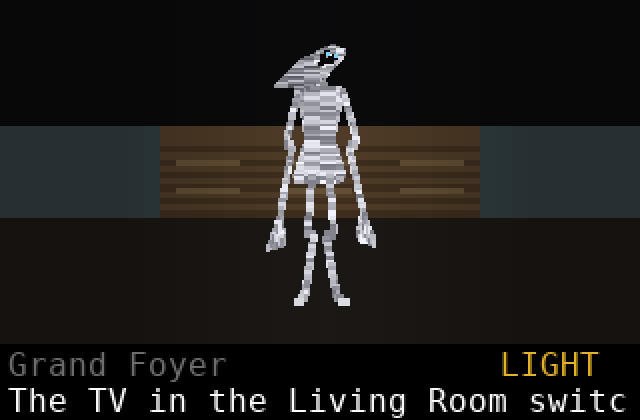
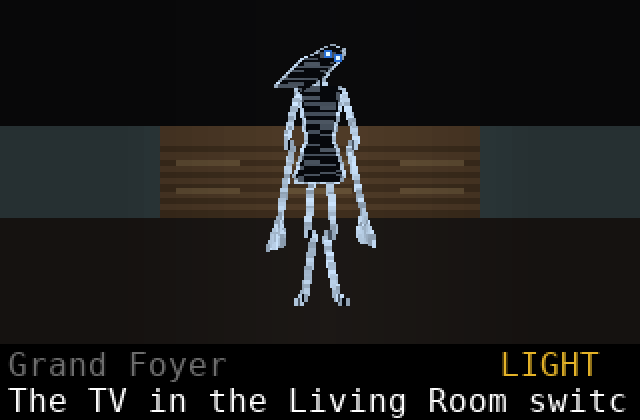
Draw Ysolde like the full game's static shader
The full game draws her dark inside with faint blue-grey static, a bright
static outline, and two small cold blue eyes, with no face most of the
time. The demo and the icon now both do the same, from the same
character-sheet shape, and the mouth, sockets and tear streaks are gone.

Claude-Session: https://claude.ai/code/session_01ABga3j6ZJ15ibdVoXrUo56

Changed region(s): [[0.4062, 0.0929, 0.5938, 0.7429], [0.5312, 0.7119, 0.5625, 0.7429]]

diff --git a/calc/GHICONS.py b/calc/GHICONS.py
@@ -305,85 +305,78 @@ def hangman(x, y, c):
 
 
 def crypt(x, y, c):
-    # Ysolde: a static woman, small head tilted hard on a long neck,
-    # lank hair, gaunt face, small cold blue eyes, jaw hanging open.
+    # Ysolde as she looks in the full game: a thin dark shape full of faint
+    # static, outlined in bright static, with two small cold blue eyes.
+    # Same shape as her character sheet (256 x 640), head and shoulders only.
     random.seed(7)
-    hx = x + 3
-    hy = y - 7
+    k = 0.21
+    ox = x + 3
+    oy = y - 17
     ca = math.cos(0.55)
     sa = math.sin(0.55)
 
-    def rot(px, py):
-        return hx + px * ca - py * sa, hy + px * sa + py * ca
+    def m(cx, cy):
+        return ox + (cx - 140) * k, oy + (cy - 50) * k
 
-    def shape(pts, col):
-        xs = []
-        ys = []
-        for px, py in pts:
-            a, b = rot(px, py)
-            xs.append(a)
-            ys.append(b)
-        poly(xs, ys, col)
+    def head(lx, ly):
+        return m(140 + lx * ca - ly * sa, 50 + lx * sa + ly * ca)
 
-    def oval(px, py, rx, ry, col, n=14):
-        shape([(px + rx * math.cos(2 * math.pi * i / n), py + ry * math.sin(2 * math.pi * i / n)) for i in range(n)], col)
+    def band(pts, w):
+        # a thick line through canvas points, as a polygon
+        left = []
+        right = []
+        for i in range(len(pts) - 1):
+            (x1, y1), (x2, y2) = pts[i], pts[i + 1]
+            d = math.hypot(x2 - x1, y2 - y1) or 1
+            nx = -(y2 - y1) / d * w / 2
+            ny = (x2 - x1) / d * w / 2
+            left += [(x1 + nx, y1 + ny), (x2 + nx, y2 + ny)]
+            right += [(x1 - nx, y1 - ny), (x2 - nx, y2 - ny)]
+        return [m(px, py) for px, py in left + right[::-1]]
 
-    def inside(px, py, xs, ys):
-        n = len(xs)
-        hit = False
-        j = n - 1
-        for i in range(n):
-            if (ys[i] > py) != (ys[j] > py) and px < xs[i] + (py - ys[i]) * (xs[j] - xs[i]) / (ys[j] - ys[i]):
-                hit = not hit
-            j = i
-        return hit
+    shapes = [
+        [head(17 * math.cos(t * math.pi / 8), 25 * math.sin(t * math.pi / 8)) for t in range(16)],
+        [head(px, py) for px, py in ((-18, -6), (-27, 30), (-24, 96), (-6, 70), (8, 100), (20, 60), (17, -6), (10, -24), (-10, -24))],
+        band(((128, 125), (132, 88), (140, 66)), 11),
+        [m(px, py) for px, py in ((98, 122), (128, 112), (160, 126), (150, 210), (148, 250), (108, 250), (106, 210))],
+        band(((100, 128), (84, 250), (90, 260)), 7),
+        band(((158, 128), (176, 248), (170, 258)), 7),
+    ]
 
-    def static(xs, ys, base, n, lo=100, hi=250):
-        poly(xs, ys, base)
-        x0 = int(min(xs))
-        x1 = int(max(xs))
-        y0 = int(min(ys))
-        y1 = int(max(ys))
-        for i in range(n):
-            px = random.randint(x0, x1)
-            py = random.randint(y0, y1)
-            if inside(px + 1, py + 1, xs, ys):
-                g = random.randint(lo, hi)
-                box(px, py, 2, 2, (g, g, g + 5 if g < 250 else g))
+    def spans(pts):
+        out = []
+        ys = [p[1] for p in pts]
+        n = len(pts)
+        for row in range(int(min(ys)), int(max(ys)) + 1):
+            yc = row + .5
+            xs = []
+            for i in range(n):
+                (x1, y1), (x2, y2) = pts[i], pts[(i + 1) % n]
+                if (y1 <= yc < y2) or (y2 <= yc < y1):
+                    xs.append(x1 + (yc - y1) * (x2 - x1) / (y2 - y1))
+            if len(xs) >= 2:
+                out.append((row, int(min(xs) + .5), int(max(xs) + .5)))
+        return out
 
-    # lank hair hanging behind, the same static as the rest of her
-    hair = [rot(px, py) for px, py in ((-9, -4), (-14, 12), (-12, 24), (-4, 18), (3, 25), (9, 15), (9, -4), (0, -12))]
-    static([p[0] for p in hair], [p[1] for p in hair], (125, 125, 132), 70, 70, 210)
-    for a0, a1 in (((-7, 0), (-11, 20)), ((-2, 2), (-3, 16)), ((4, 2), (6, 20))):
-        p0 = rot(a0[0], a0[1])
-        p1 = rot(a1[0], a1[1])
-        line(p0[0], p0[1], p1[0], p1[1], (45, 45, 52))
-    # long neck and narrow sloped shoulders
-    nx, ny = rot(0, 11)
-    static([nx - 3, nx + 3, x + 2, x - 4], [ny, ny, y + 16, y + 16], (165, 165, 172), 30)
-    static([x - 13, x - 2, x + 11, x + 7, x - 9], [y + 22, y + 14, y + 20, y + 23, y + 23], (150, 150, 158), 40)
-    # head
-    oval(0, 0, 8.5, 12.5, (200, 200, 205))
-    for i in range(70):
-        px = random.uniform(-8, 8)
-        py = random.uniform(-12, 12)
-        if (px / 8.5) ** 2 + (py / 12.5) ** 2 < 1:
-            g = random.randint(110, 255)
-            a, b = rot(px, py)
-            box(a, b, 2, 2, (g, g, g))
-    # glitch band
-    a, b = rot(0, -6)
-    box(a - 6, b, 14, 2, (235, 235, 240))
-    # face
-    for s in (-1, 1):
-        oval(s * 3.5, -3, 2.4, 2.8, (10, 10, 15), 8)
-        ex, ey = rot(s * 3.5, -3)
-        circ(ex, ey, 1, (40, 110, 220))
-        box(ex, ey, 2, 2, (150, 225, 255))
-        t0 = rot(s * 3.5, 1)
-        t1 = rot(s * 4, 6)
-        line(t0[0], t0[1], t1[0], t1[1], (10, 10, 15))
-    oval(0, 7, 2, 4, (15, 5, 5), 10)
+    all_spans = [spans(sh) for sh in shapes]
+    # bright static outline: everything bright first, then the dark inside
+    for sp in all_spans:
+        for row, a, b in sp:
+            g = random.randint(150, 255)
+            hline(a, max(a, b - 1), row, (g * 4 // 5, g * 9 // 10, g))
+    for sp in all_spans:
+        for row, a, b in sp[1:-1]:
+            if b - a > 2:
+                hline(a + 1, b - 2, row, (8, 10, 15))
+                if random.randint(0, 3) == 0:
+                    px = random.randint(a + 1, b - 2)
+                    g = random.randint(35, 90)
+                    hline(px, min(b - 2, px + 1), row, (g * 5 // 6, g * 11 // 12, g))
+    # small cold blue eyes
+    for ex, ey in ((137.2, 41.2), (149.1, 48.55)):
+        a, b = m(ex, ey)
+        circ(a, b, 1, (35, 95, 200))
+        box(a, b, 2, 2, (225, 248, 255))
     random.seed()
 
 

diff --git a/calc/GHCRYPT.py b/calc/GHCRYPT.py
@@ -277,18 +277,19 @@ def bottom(g, prompt):
 
 
 # Ysolde, drawn from the character sheet in the full game (a 256 x 640 picture):
-# very thin and tall, all static, small head tilted hard on a long neck,
-# lank hair hanging from it, black eyes that glow small and cold blue, black
-# tear streaks, jaw hanging open, short tattered dress, arms past the knees.
-# Built once into thin slabs (u0, u1, v0, v1, kind); kinds draw in order:
-# 0 static body, 1 static hair (a little darker), 2 static head, 3 black, 4 eye glow.
+# very thin and tall, small head tilted hard on a long neck, lank hair, short
+# tattered dress, arms past the knees. Like the game's shader, her body is
+# dark inside with faint blue-grey static, her outline glows with bright static,
+# and two small cold blue eyes shine out of the dark. No face most of the time.
+# Built once into thin slabs (u0, u1, v0, v1, kind); kind 4 is an eye.
 YS = []
 
 
-def _poly_slabs(pts, kind, step):
+def _poly_slabs(pts, kind, step, top=True, bottom=True):
     ys = [p[1] for p in pts]
     y = min(ys)
     n = len(pts)
+    first = len(YS)
     while y < max(ys):
         yc = y + step / 2
         xs = []
@@ -300,6 +301,11 @@ def _poly_slabs(pts, kind, step):
         if len(xs) >= 2:
             YS.append((min(xs) / 256, max(xs) / 256, 1 - (y + step) / 640, 1 - y / 640, kind))
         y += step
+    # the top and bottom slabs are outline too
+    for i, on in ((first, top), (len(YS) - 1, bottom)):
+        if on and i < len(YS):
+            u0, u1, v0, v1, k = YS[i]
+            YS[i] = (u0, u1, v0, v1, 5)
 
 
 def _limb(pts, w, kind=0):
@@ -333,14 +339,14 @@ def _build_ys():
     sa = math.sin(.55)
     # body
     _limb([128, 120, 132, 88, 140, 66], 11)
-    _poly_slabs([(98, 122), (128, 112), (160, 126), (150, 210), (146, 260), (110, 260), (106, 210)], 0, 8)
+    _poly_slabs([(98, 122), (128, 112), (160, 126), (150, 210), (146, 260), (110, 260), (106, 210)], 0, 8, True, False)
     hem = [(108, 250), (148, 250), (162, 330)]
     x = 162
     while x > 94:
         hem.append((x - 4.5, 330 + (18 if int(x) % 2 else 6)))
         x -= 9
     hem.append((94, 330))
-    _poly_slabs(hem, 0, 6)
+    _poly_slabs(hem, 0, 6, False, True)
     _limb([118, 320, 112, 460, 120, 470, 108, 612, 98, 628], 9)
     _limb([140, 320, 146, 462, 136, 474, 150, 610, 162, 630], 9)
     _limb([100, 128, 84, 250, 92, 262, 76, 420], 7)
@@ -350,50 +356,56 @@ def _build_ys():
             _limb([x0, y0, x0 + sg * (f * 4 - 6), y0 + 52 + (f % 2) * 8, x0 + sg * (f * 5 - 4), y0 + 70 + f * 3], 2.6)
     # lank hair hanging from the tilted head
     hair = [(-18, -6), (-27, 30), (-24, 96), (-6, 70), (8, 100), (20, 60), (17, -6), (10, -24), (-10, -24)]
-    _poly_slabs([(140 + lx * ca - ly * sa, 50 + lx * sa + ly * ca) for lx, ly in hair], 1, 4)
-    _oval(0, 0, 17, 25, 2, 4)
-    # black eyes, tear streaks, open jaw
-    for sg in (-1, 1):
-        _oval(sg * 6, -5, 3.5, 4, 3, 2, sg * .3)
-        p0 = (sg * 6, 0)
-        p1 = (sg * 7, 11)
-        _limb([140 + p0[0] * ca - p0[1] * sa, 50 + p0[0] * sa + p0[1] * ca,
-               140 + p1[0] * ca - p1[1] * sa, 50 + p1[0] * sa + p1[1] * ca], 1.5, 3)
-    _oval(0, 16, 3.5, 8, 3, 2)
-    for sg in (-1, 1):
-        _oval(sg * 6, -5, 1.4, 1.4, 4, 2)
-    YS.sort(key=lambda r: r[4])
-
-
-COLS_YS = (None, None, None, (8, 6, 8), (120, 210, 255))
+    _poly_slabs([(140 + lx * ca - ly * sa, 50 + lx * sa + ly * ca) for lx, ly in hair], 0, 4)
+    _oval(0, 0, 17, 25, 0, 4)
+    for ex, ey in ((137.2, 41.2), (149.1, 48.55)):
+        YS.append(((ex - 2) / 256, (ex + 2) / 256, 1 - (ey + 2) / 640, 1 - (ey - 2) / 640, 4))
 
 
 def ys_column(x, left, wid, top, h):
     if not YS:
         _build_ys()
     x1 = x + CWID
-    for u0, u1, v0, v1, kind in YS:
-        pa = int(left + u0 * wid)
-        pb = int(left + u1 * wid) + 1
-        if kind == 4:
-            pb = max(pb, pa + 2)
-        a = max(x, pa)
-        b = min(x1, pb)
-        if b - a < 1:
-            continue
-        y0 = int(top + h * (1 - v1))
-        y1 = min(VH, int(top + h * (1 - v0)) + 1)
-        if y0 >= VH or y1 <= 0:
-            continue
-        if kind == 0 or kind == 2:
-            g = random.randint(120, 245)
-            c = (g, g, g + 8 if g < 248 else g)
-        elif kind == 1:
-            g = random.randint(80, 205)
-            c = (g, g, g + 8)
-        else:
-            c = COLS_YS[kind]
-        rect(a, max(0, y0), b - a, max(2 if kind == 4 else 1, y1 - max(0, y0)), c)
+    rim = max(1, int(wid * .03))
+    eyes = []
+    for p in (0, 1):
+        for u0, u1, v0, v1, kind in YS:
+            pa = int(left + u0 * wid)
+            pb = int(left + u1 * wid) + 1
+            if kind == 4:
+                if p == 0:
+                    eyes.append((pa, pb, v0, v1))
+                continue
+            if p == 1:
+                if kind == 5:
+                    continue
+                pa += rim
+                pb -= rim
+            a = max(x, pa)
+            b = min(x1, pb)
+            if b - a < 1:
+                continue
+            y0 = max(0, int(top + h * (1 - v1)))
+            y1 = min(VH, int(top + h * (1 - v0)) + 1)
+            if y1 - y0 < 1:
+                continue
+            if p == 0:
+                g = random.randint(170, 255)
+                c = (g * 4 // 5, g * 9 // 10, g)
+            else:
+                g = random.randint(0, 9)
+                c = (6, 8, 12) if g < 7 else (40 + g * 4, 50 + g * 4, 62 + g * 4)
+            rect(a, y0, b - a, y1 - y0, c)
+    for pa, pb, v0, v1 in eyes:
+        cx = (pa + pb) // 2
+        cy = int(top + h * (1 - (v0 + v1) / 2))
+        if x - 2 <= cx < x1 + 2 and 0 <= cy < VH - 2:
+            ha = max(x, cx - 1)
+            hb = min(x1, cx + 3)
+            if hb - ha >= 1:
+                rect(ha, cy - 1, hb - ha, 4, (40, 110, 210))
+            if x <= cx < x1:
+                rect(cx, cy, 2, 2, (230, 250, 255))
 
 
 # ---------- text screens ----------
